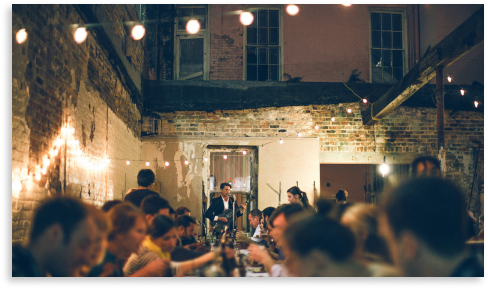
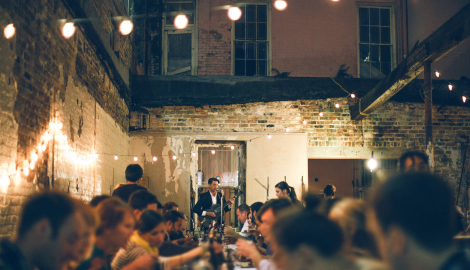
business slide imgs to grid

diff --git a/radar.html b/radar.html
@@ -186,16 +186,20 @@
 							<p class="slide-business__title">Снижение цены клика</p>
 							<p class="slide-business__text">Создавая аудиторные сегменты на рекламных площадках - вы можете
 								снизить цену за рекламные показатели (клик, переход) в несколько раз.</p>
-							<div class="slide-business__images">
-								<div class="slide-business__big-img"><img src="images/content_img/radar/business/01.png" alt="">
-								</div>
-
-								<div class="slide-business__column-images">
-									<img src="images/content_img/radar/business/02.png" alt="">
-									<img src="images/content_img/radar/business/03.png" alt="">
-									<img src="images/content_img/radar/business/04.png" alt="">
+							<div class="slide-business__img-wrapper">
+								<div class="slide-business__images slide-business__images--grid">
+									<div class="slide-business__img slide-business__img--big">
+										<img src="images/content_img/radar/business/01.png" alt="">
+									</div>
+									<div class="slide-business__img"><img src="images/content_img/radar/business/02.png" alt="">
+									</div>
+									<div class="slide-business__img"><img src="images/content_img/radar/business/03.png" alt="">
+									</div>
+									<div class="slide-business__img"><img src="images/content_img/radar/business/04.png" alt="">
+									</div>
 								</div>
 							</div>
+
 							<p class="slide-business__subtitle">Чем может помочь Wi-Fi радар.</p>
 							<p class="slide-business__text">Собирая аудиторию mac-адресов вы можете использовать их - добавляя
 								в рекламные кабинеты на своих страницах. Данная опция может вам выбрать необходимых сегмент

diff --git a/css/style.css b/css/style.css
@@ -1825,6 +1825,31 @@ body {
   margin: 15px 0 0 0;
 }
 
+.slide-business__img-wrapper {
+  padding-top: 57.8%;
+  position: relative;
+  margin: 38px 0;
+}
+
+@media (max-width: 1199px) {
+  .slide-business__img-wrapper {
+    max-width: 100%;
+    -ms-flex-item-align: center;
+        -ms-grid-row-align: center;
+        align-self: center;
+  }
+}
+
+@media (max-width: 768px) {
+  .slide-business__img-wrapper {
+    max-width: 100%;
+    -ms-flex-item-align: center;
+        -ms-grid-row-align: center;
+        align-self: center;
+    margin: 15px 0;
+  }
+}
+
 .slide-business__images {
   display: -webkit-box;
   display: -ms-flexbox;
@@ -1849,6 +1874,48 @@ body {
         align-self: center;
     margin: 15px 0;
   }
+}
+
+.slide-business__images--grid {
+  display: -ms-grid;
+  display: grid;
+  -ms-grid-columns: 3.4fr 1fr;
+      grid-template-columns: 3.4fr 1fr;
+  -ms-grid-rows: 1fr 1fr 1fr;
+      grid-template-rows: 1fr 1fr 1fr;
+  gap: 15px;
+  position: absolute;
+  top: 0;
+  left: 0;
+  width: 100%;
+  height: 100%;
+  margin: 0;
+  max-width: 100%;
+}
+
+@media (max-width: 768px) {
+  .slide-business__images--grid {
+    gap: 10px;
+  }
+}
+
+.slide-business__img {
+  position: relative;
+}
+
+.slide-business__img img {
+  position: absolute;
+  top: 0;
+  left: 0;
+  width: 100%;
+  height: 100%;
+  -o-object-fit: cover;
+     object-fit: cover;
+}
+
+.slide-business__img--big {
+  -ms-grid-row: span 3;
+      grid-row-start: span 3;
 }
 
 .slide-business__image {
@@ -2060,6 +2127,7 @@ body {
 .cases-radar__items {
   padding: 72px 0 0 0;
   position: relative;
+  min-height: 460px;
 }
 
 @media (max-width: 768px) {

diff --git a/#source/scss/_business-radar.scss b/#source/scss/_business-radar.scss
@@ -234,6 +234,23 @@
 		margin: 15px 0 0 0;
 	}
 
+	&__img-wrapper {
+		padding-top: 57.8%;
+		position: relative;
+		margin: 38px 0;
+
+		@media (max-width: $md) {
+			max-width: 100%;
+			align-self: center;
+		}
+
+		@media (max-width: $xs) {
+			max-width: 100%;
+			align-self: center;
+			margin: 15px 0;
+		}
+	}
+
 	&__images {
 		display: flex;
 		margin: 38px 0;
@@ -247,6 +264,41 @@
 			max-width: 100%;
 			align-self: center;
 			margin: 15px 0;
+		}
+
+		&--grid {
+			display: grid;
+			grid-template-columns: 3.4fr 1fr;
+			grid-template-rows: 1fr 1fr 1fr;
+			gap: 15px;
+			position: absolute;
+			top: 0;
+			left: 0;
+			width: 100%;
+			height: 100%;
+			margin: 0;
+			max-width: 100%;
+
+			@media (max-width: $xs) {
+				gap: 10px;
+			}
+		}
+	}
+
+	&__img {
+		position: relative;
+
+		img {
+			position: absolute;
+			top: 0;
+			left: 0;
+			width: 100%;
+			height: 100%;
+			object-fit: cover;
+		}
+
+		&--big {
+			grid-row-start: span 3;
 		}
 	}
 

diff --git a/#source/scss/_cases-radar.scss b/#source/scss/_cases-radar.scss
@@ -33,22 +33,14 @@
 		margin: 0 0 35px 0;
 	}
 
-	&__content {
-	}
-
-	&__menu {
-	}
-
 	&__items {
 		padding: 72px 0 0 0;
 		position: relative;
+		min-height: 460px;
 
 		@media (max-width: $xs) {
 			padding: 40px 0 0 0;
 		}
-	}
-
-	&__item {
 	}
 
 	&__ellipse {
